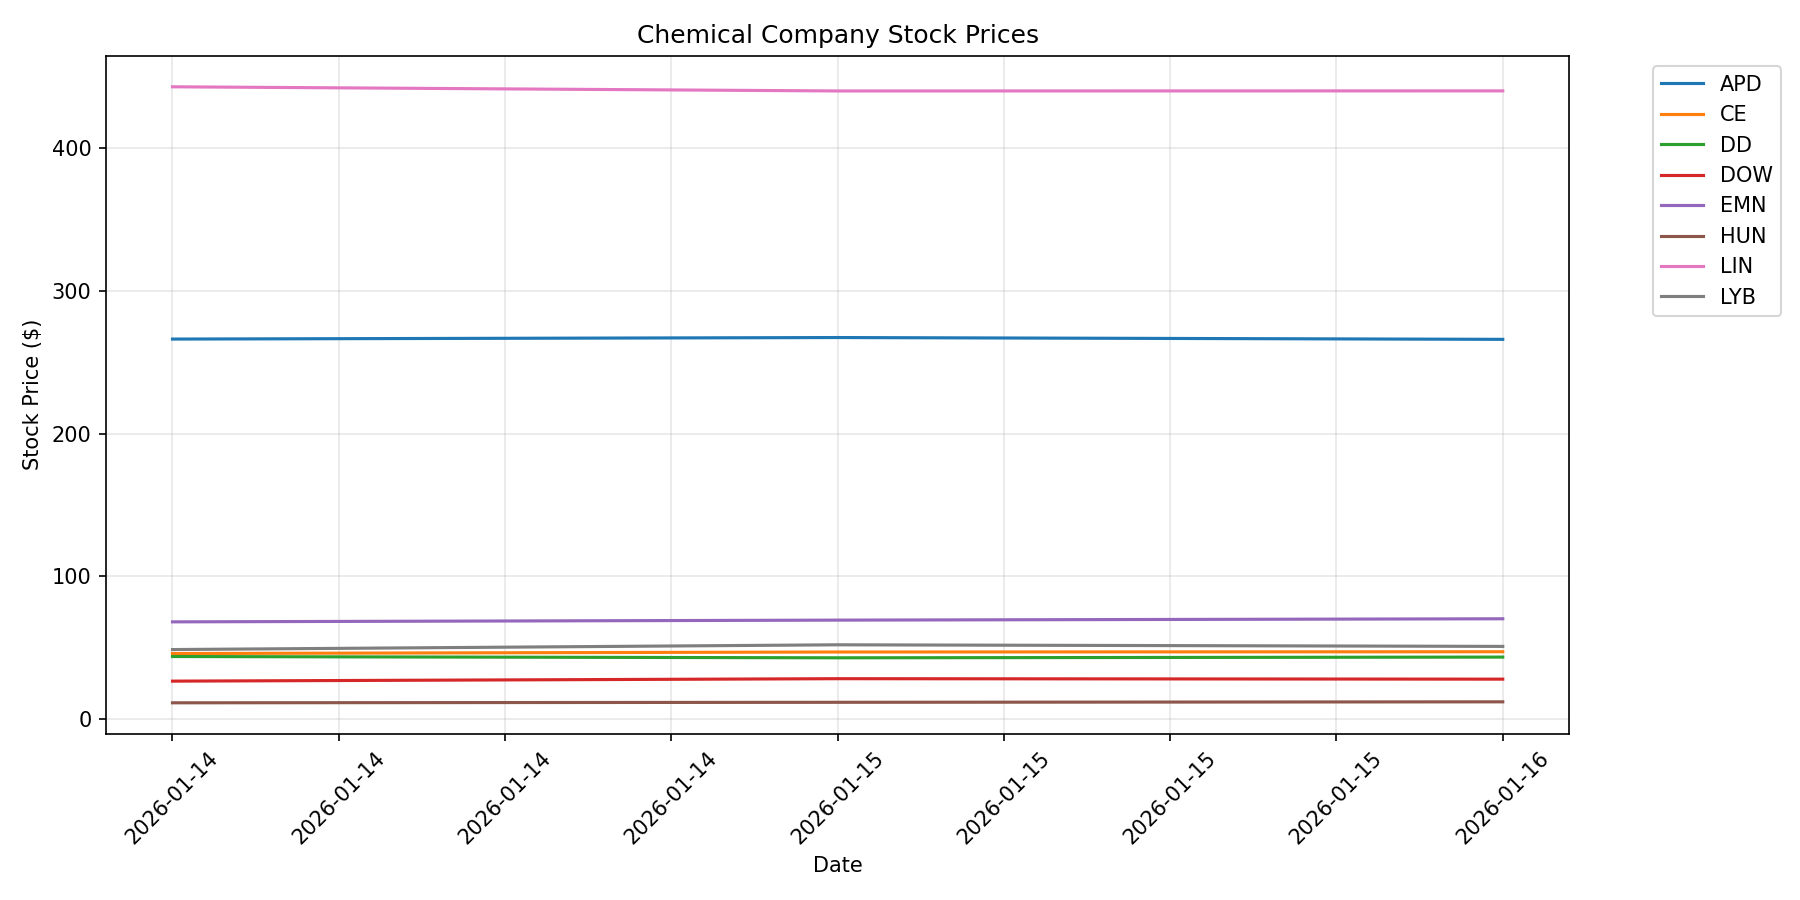
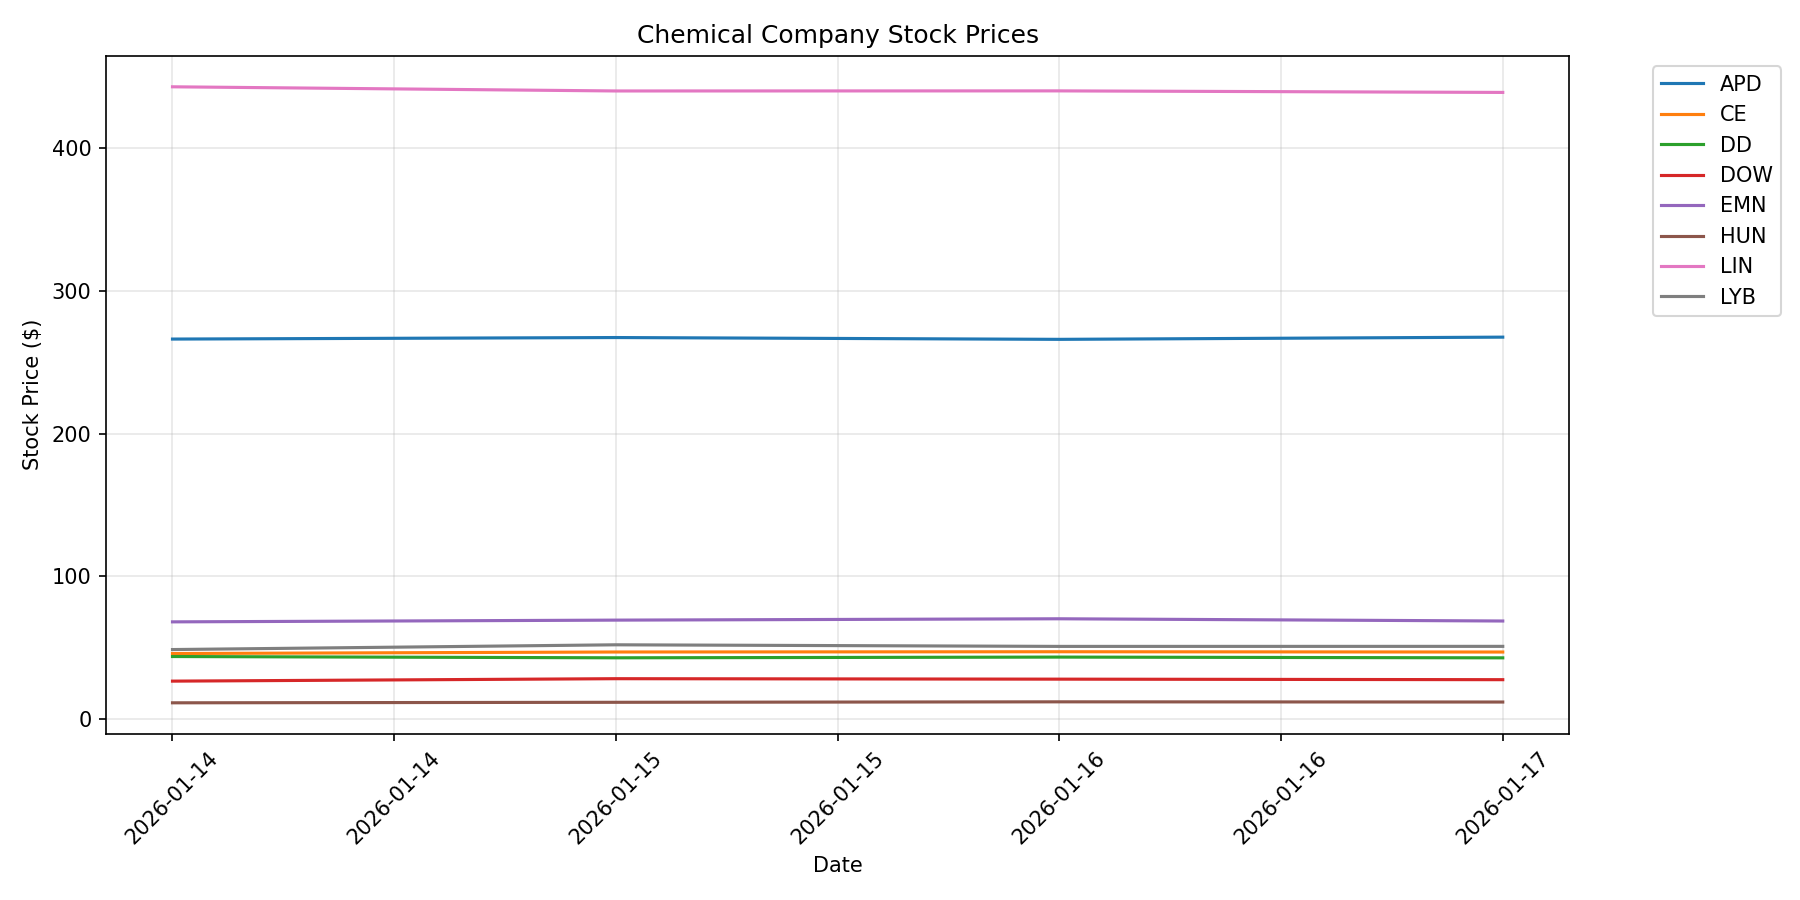
Daily price update: 2026-01-17

diff --git a/README.md b/README.md
@@ -2,29 +2,29 @@
 
 Automated daily tracking of chemical commodity prices and chemical company stocks.
 
-## Latest Prices (Updated: 2026-01-16)
+## Latest Prices (Updated: 2026-01-17)
 
 ### Energy Commodities
 
 | Commodity | Price | Change (24h) | Unit |
 |-----------|-------|--------------|------|
-| WTI Crude Oil | $59.84 | +0.65 (+1.10%) | $/barrel |
-| Brent Crude Oil | $64.60 | +0.84 (+1.32%) | $/barrel |
-| Natural Gas | $3.11 | -0.02 (-0.64%) | $/MMBtu |
-| Heating Oil | $2.23 | +0.02 (+1.04%) | $/gallon |
+| WTI Crude Oil | $59.44 | +0.25 (+0.42%) | $/barrel |
+| Brent Crude Oil | $64.13 | +0.37 (+0.58%) | $/barrel |
+| Natural Gas | $3.10 | -0.03 (-0.80%) | $/MMBtu |
+| Heating Oil | $2.24 | +0.03 (+1.33%) | $/gallon |
 
 ### Chemical Company Stocks
 
 | Company | Ticker | Price | Change (24h) |
 |---------|--------|-------|--------------|
-| Dow Inc. | DOW | $27.94 | -0.32 (-1.13%) |
-| LyondellBasell | LYB | $50.88 | -1.12 (-2.15%) |
-| DuPont | DD | $43.39 | +0.50 (+1.17%) |
-| Air Products | APD | $265.98 | -1.27 (-0.48%) |
-| Linde | LIN | $440.04 | +0.06 (+0.01%) |
-| Eastman Chemical | EMN | $70.23 | +0.94 (+1.36%) |
-| Celanese | CE | $47.14 | +0.18 (+0.38%) |
-| Huntsman | HUN | $12.05 | +0.33 (+2.82%) |
+| Dow Inc. | DOW | $27.57 | -0.37 (-1.32%) |
+| LyondellBasell | LYB | $50.91 | +0.03 (+0.06%) |
+| DuPont | DD | $42.86 | -0.53 (-1.22%) |
+| Air Products | APD | $267.53 | +1.55 (+0.58%) |
+| Linde | LIN | $438.96 | -1.08 (-0.25%) |
+| Eastman Chemical | EMN | $68.67 | -1.56 (-2.22%) |
+| Celanese | CE | $46.94 | -0.20 (-0.42%) |
+| Huntsman | HUN | $11.91 | -0.14 (-1.16%) |
 
 ## Data Sources
 

diff --git a/logs/update_log.md b/logs/update_log.md
@@ -17,3 +17,4 @@ Daily updates to the chemical engineering data repository.
 - **2026-01-15 14:16:56**: Updated 4 energy prices, 8 stocks, 0 FRED series
 - **2026-01-16 00:00:03**: Updated 4 energy prices, 8 stocks, 0 FRED series
 - **2026-01-16 14:15:21**: Updated 4 energy prices, 8 stocks, 0 FRED series
+- **2026-01-17 14:11:16**: Updated 4 energy prices, 8 stocks, 0 FRED series
